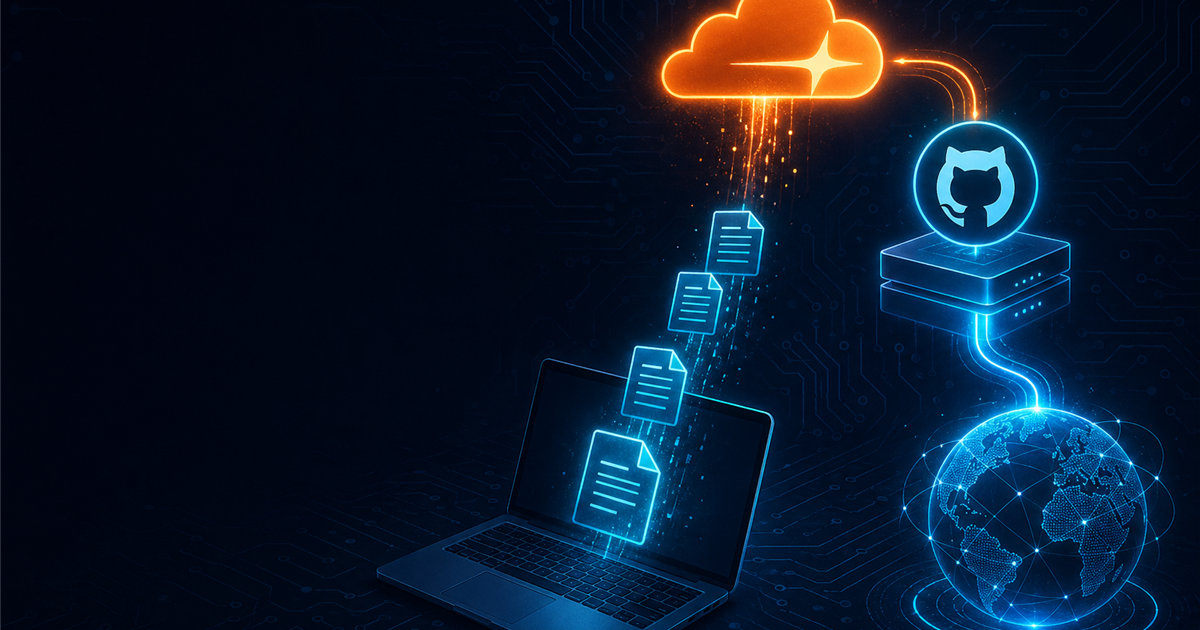
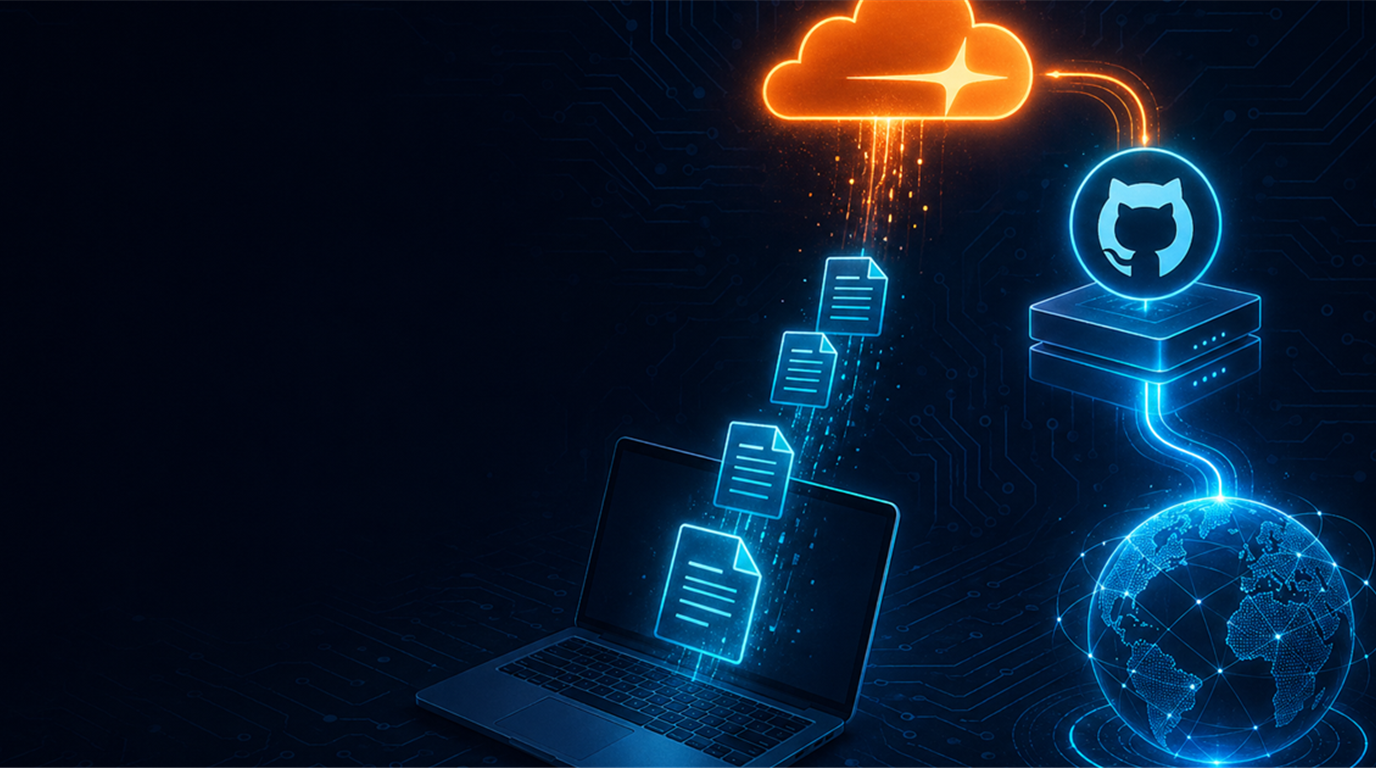
fix: resize thumbnail to 1376x768 to fix square corners
CSS border-radius requires image size different from container aspect ratio.
1376x768 matches reference thumbnails and allows all 4 corners to be clipped properly.

diff --git a/tmp-diagram/thumb-cloudflare-blog-publish-flow.html b/tmp-diagram/thumb-cloudflare-blog-publish-flow.html
@@ -5,8 +5,8 @@
 <style>
   * { box-sizing: border-box; margin: 0; padding: 0; }
   body {
-    width: 1200px;
-    height: 630px;
+    width: 1376px;
+    height: 768px;
     overflow: hidden;
     font-family: "Hiragino Kaku Gothic Pro", "Noto Sans JP", "Yu Gothic", sans-serif;
     position: relative;
